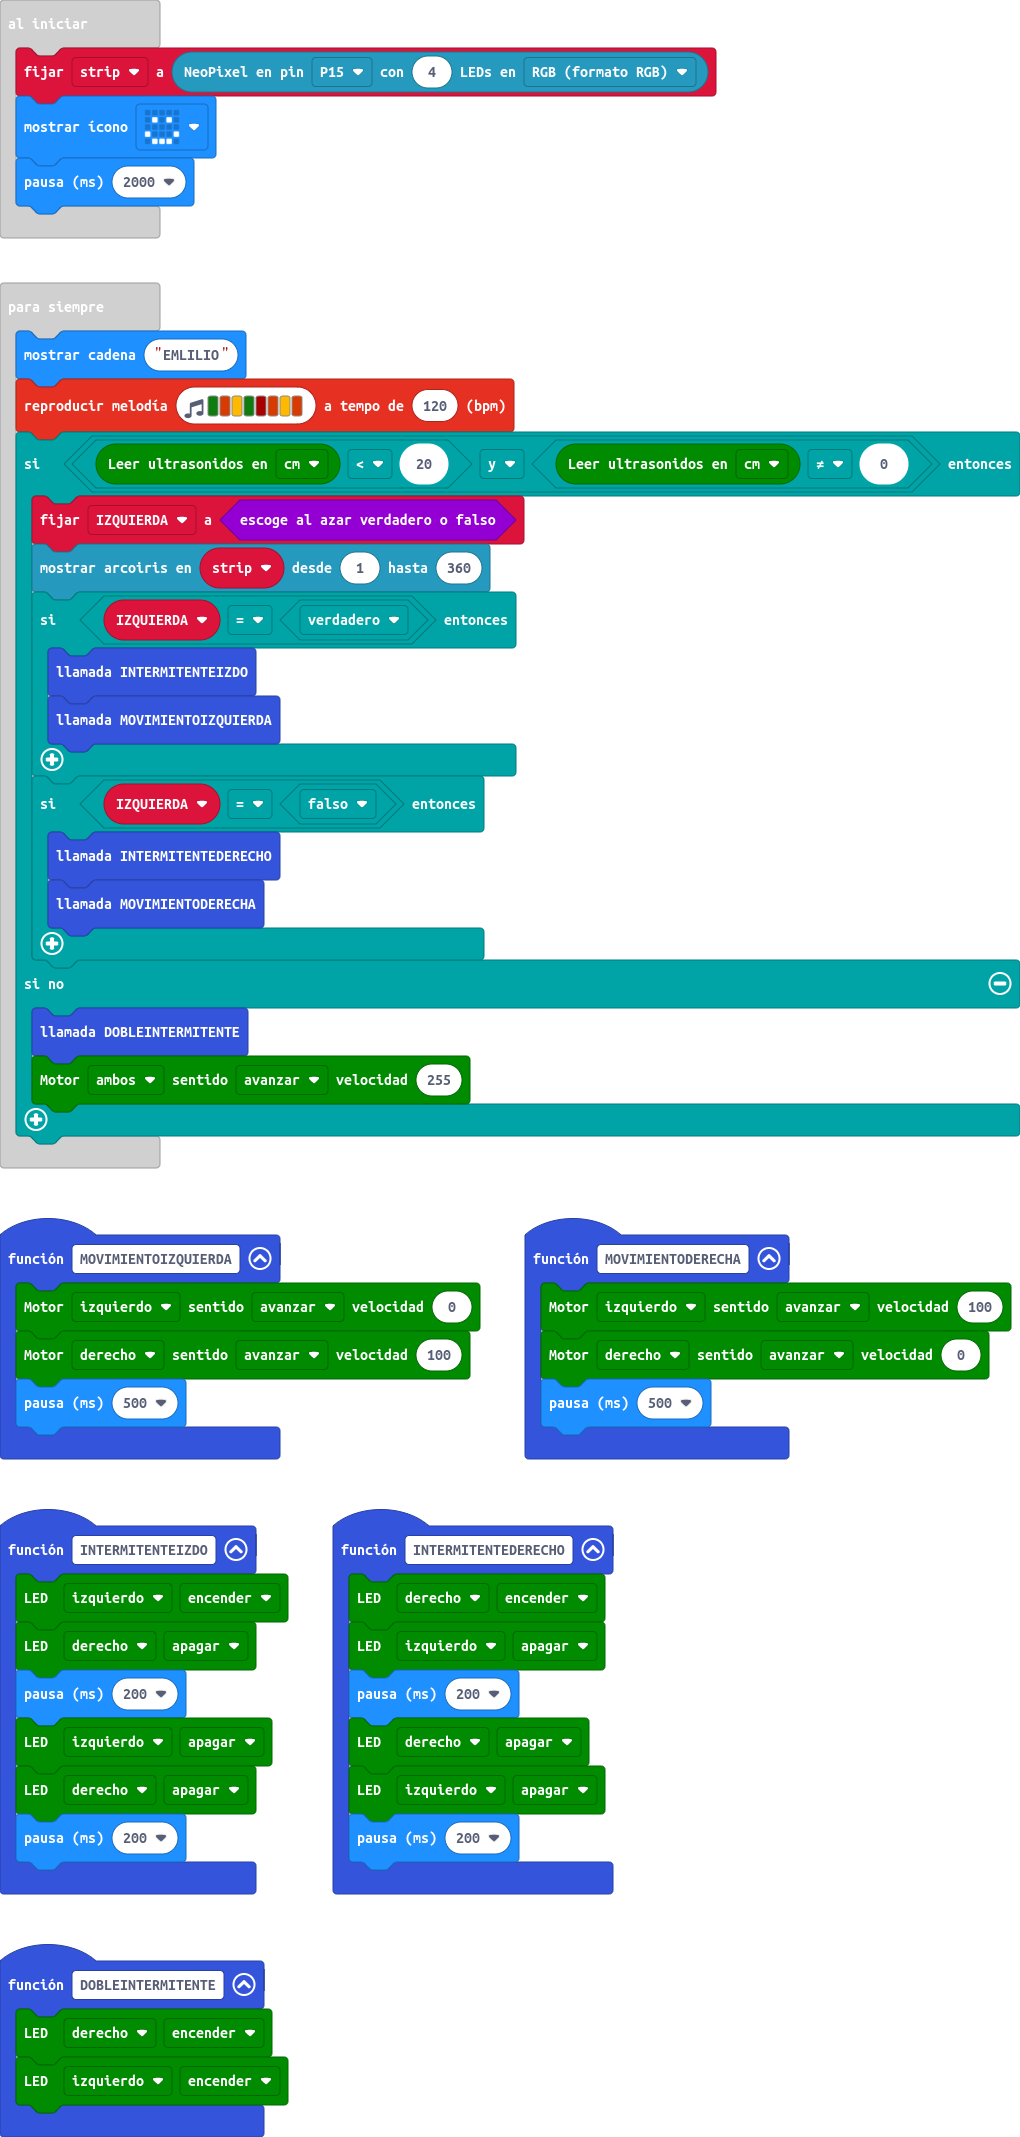
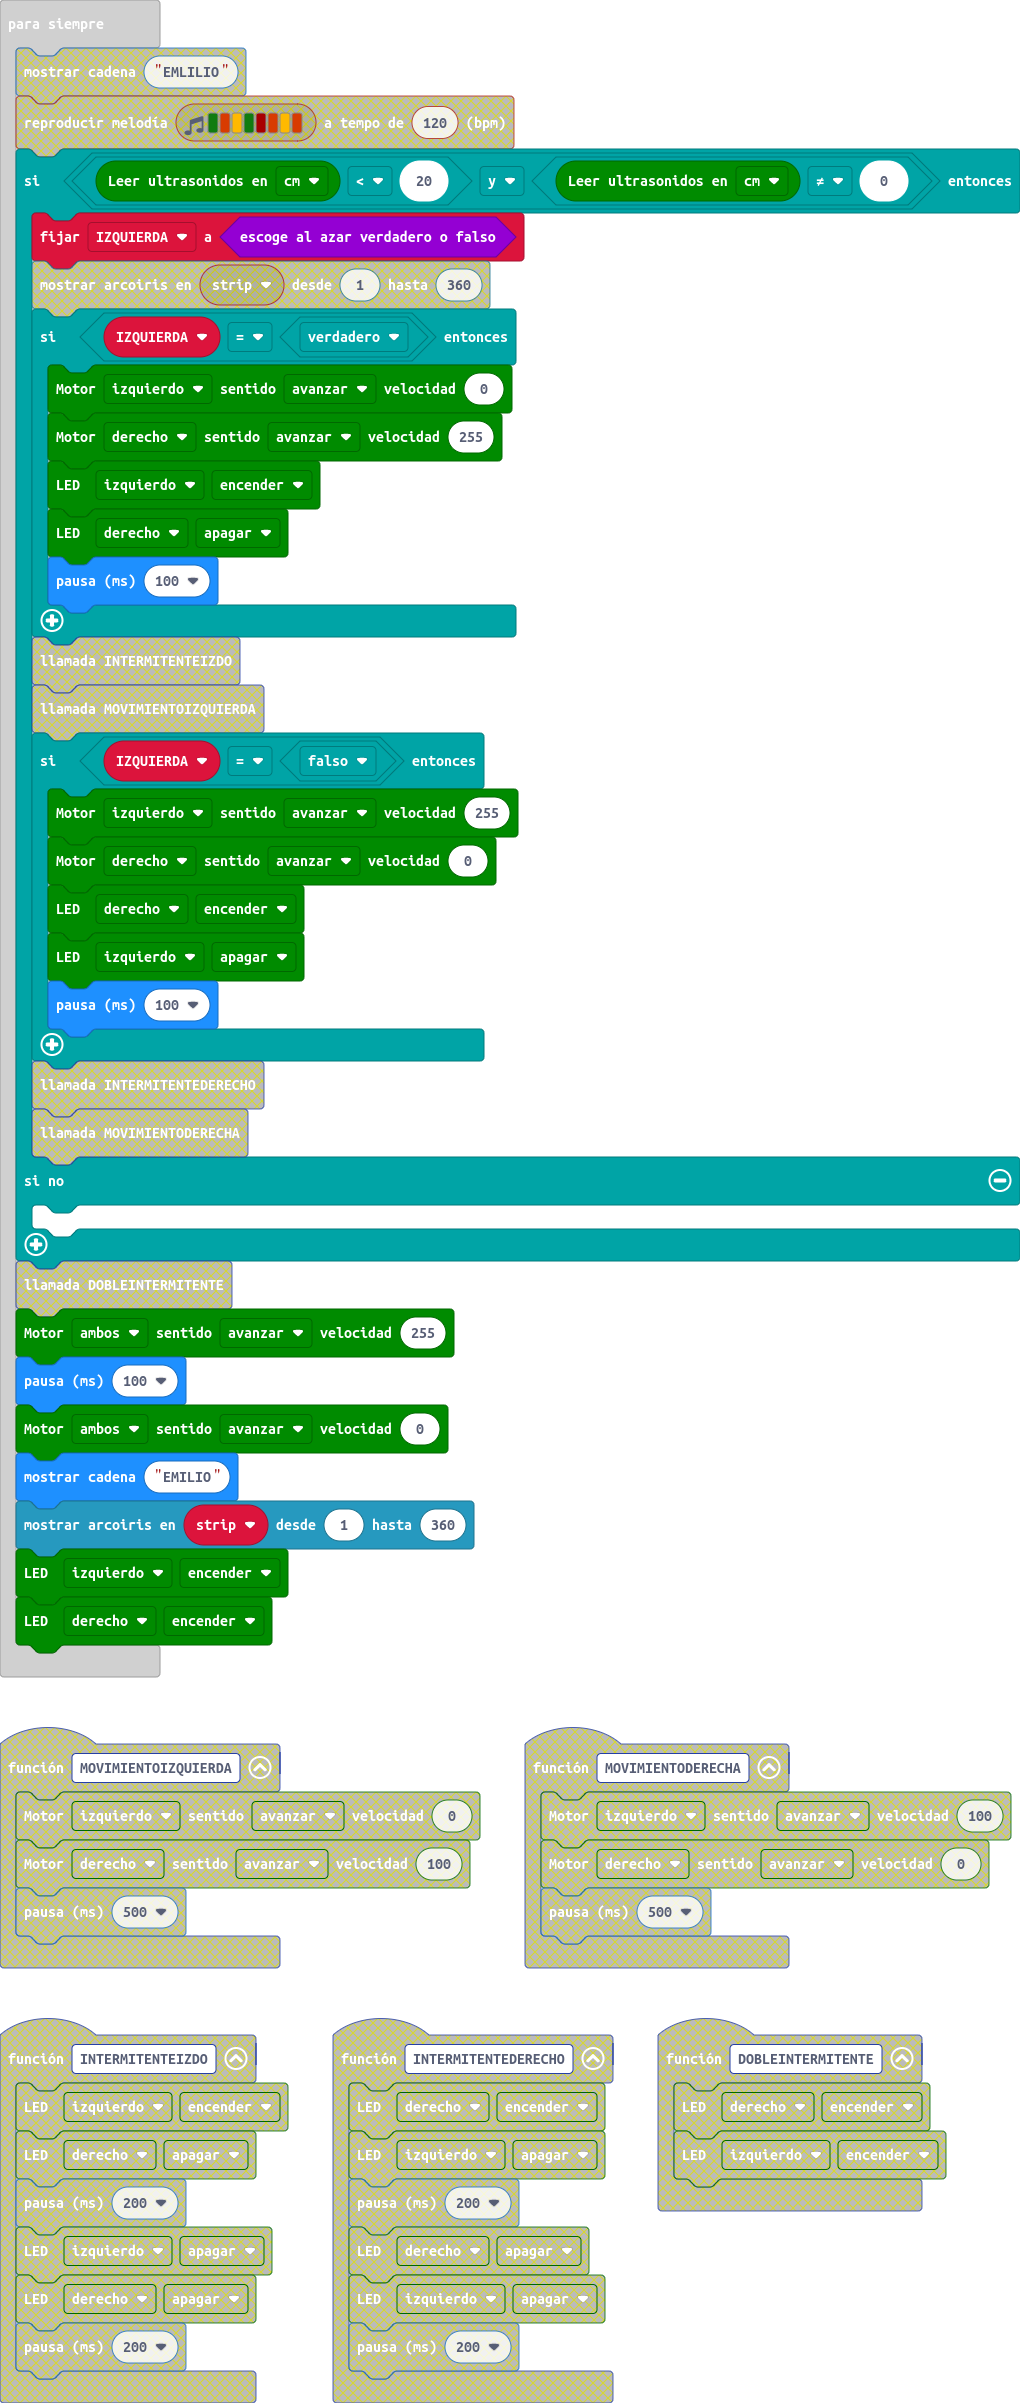
Actualizar main.blocks, main.ts

diff --git a/main.ts b/main.ts
@@ -1,53 +1,31 @@
-function MOVIMIENTOIZQUIERDA () {
-    maqueen.motorRun(maqueen.Motors.M1, maqueen.Dir.CW, 0)
-    maqueen.motorRun(maqueen.Motors.M2, maqueen.Dir.CW, 100)
-    basic.pause(500)
-}
-function INTERMITENTEIZDO () {
-    maqueen.writeLED(maqueen.LED.LEDLeft, maqueen.LEDswitch.turnOn)
-    maqueen.writeLED(maqueen.LED.LEDRight, maqueen.LEDswitch.turnOff)
-    basic.pause(200)
-    maqueen.writeLED(maqueen.LED.LEDLeft, maqueen.LEDswitch.turnOff)
-    maqueen.writeLED(maqueen.LED.LEDRight, maqueen.LEDswitch.turnOff)
-    basic.pause(200)
-}
-function INTERMITENTEDERECHO () {
-    maqueen.writeLED(maqueen.LED.LEDRight, maqueen.LEDswitch.turnOn)
-    maqueen.writeLED(maqueen.LED.LEDLeft, maqueen.LEDswitch.turnOff)
-    basic.pause(200)
-    maqueen.writeLED(maqueen.LED.LEDRight, maqueen.LEDswitch.turnOff)
-    maqueen.writeLED(maqueen.LED.LEDLeft, maqueen.LEDswitch.turnOff)
-    basic.pause(200)
-}
-function DOBLEINTERMITENTE () {
-    maqueen.writeLED(maqueen.LED.LEDRight, maqueen.LEDswitch.turnOn)
-    maqueen.writeLED(maqueen.LED.LEDLeft, maqueen.LEDswitch.turnOn)
-}
-function MOVIMIENTODERECHA () {
-    maqueen.motorRun(maqueen.Motors.M1, maqueen.Dir.CW, 100)
-    maqueen.motorRun(maqueen.Motors.M2, maqueen.Dir.CW, 0)
-    basic.pause(500)
-}
 let IZQUIERDA = false
 let strip = neopixel.create(DigitalPin.P15, 4, NeoPixelMode.RGB)
 basic.showIcon(IconNames.Happy)
 basic.pause(2000)
 basic.forever(function () {
-    basic.showString("EMLILIO")
-    music.playMelody("G B A G C5 B A B ", 120)
+    basic.showString("EMILIO")
+    strip.showRainbow(1, 360)
+    maqueen.writeLED(maqueen.LED.LEDLeft, maqueen.LEDswitch.turnOn)
+    maqueen.writeLED(maqueen.LED.LEDRight, maqueen.LEDswitch.turnOn)
     if (maqueen.Ultrasonic(PingUnit.Centimeters) < 20 && maqueen.Ultrasonic(PingUnit.Centimeters) != 0) {
         IZQUIERDA = Math.randomBoolean()
-        strip.showRainbow(1, 360)
         if (IZQUIERDA == true) {
-            INTERMITENTEIZDO()
-            MOVIMIENTOIZQUIERDA()
+            maqueen.motorRun(maqueen.Motors.M1, maqueen.Dir.CW, 0)
+            maqueen.motorRun(maqueen.Motors.M2, maqueen.Dir.CW, 255)
+            maqueen.writeLED(maqueen.LED.LEDLeft, maqueen.LEDswitch.turnOn)
+            maqueen.writeLED(maqueen.LED.LEDRight, maqueen.LEDswitch.turnOff)
+            basic.pause(100)
         }
         if (IZQUIERDA == false) {
-            INTERMITENTEDERECHO()
-            MOVIMIENTODERECHA()
+            maqueen.motorRun(maqueen.Motors.M1, maqueen.Dir.CW, 255)
+            maqueen.motorRun(maqueen.Motors.M2, maqueen.Dir.CW, 0)
+            maqueen.writeLED(maqueen.LED.LEDRight, maqueen.LEDswitch.turnOn)
+            maqueen.writeLED(maqueen.LED.LEDLeft, maqueen.LEDswitch.turnOff)
+            basic.pause(100)
         }
     } else {
-        DOBLEINTERMITENTE()
         maqueen.motorRun(maqueen.Motors.All, maqueen.Dir.CW, 255)
+        basic.pause(100)
+        maqueen.motorRun(maqueen.Motors.All, maqueen.Dir.CW, 0)
     }
 })
